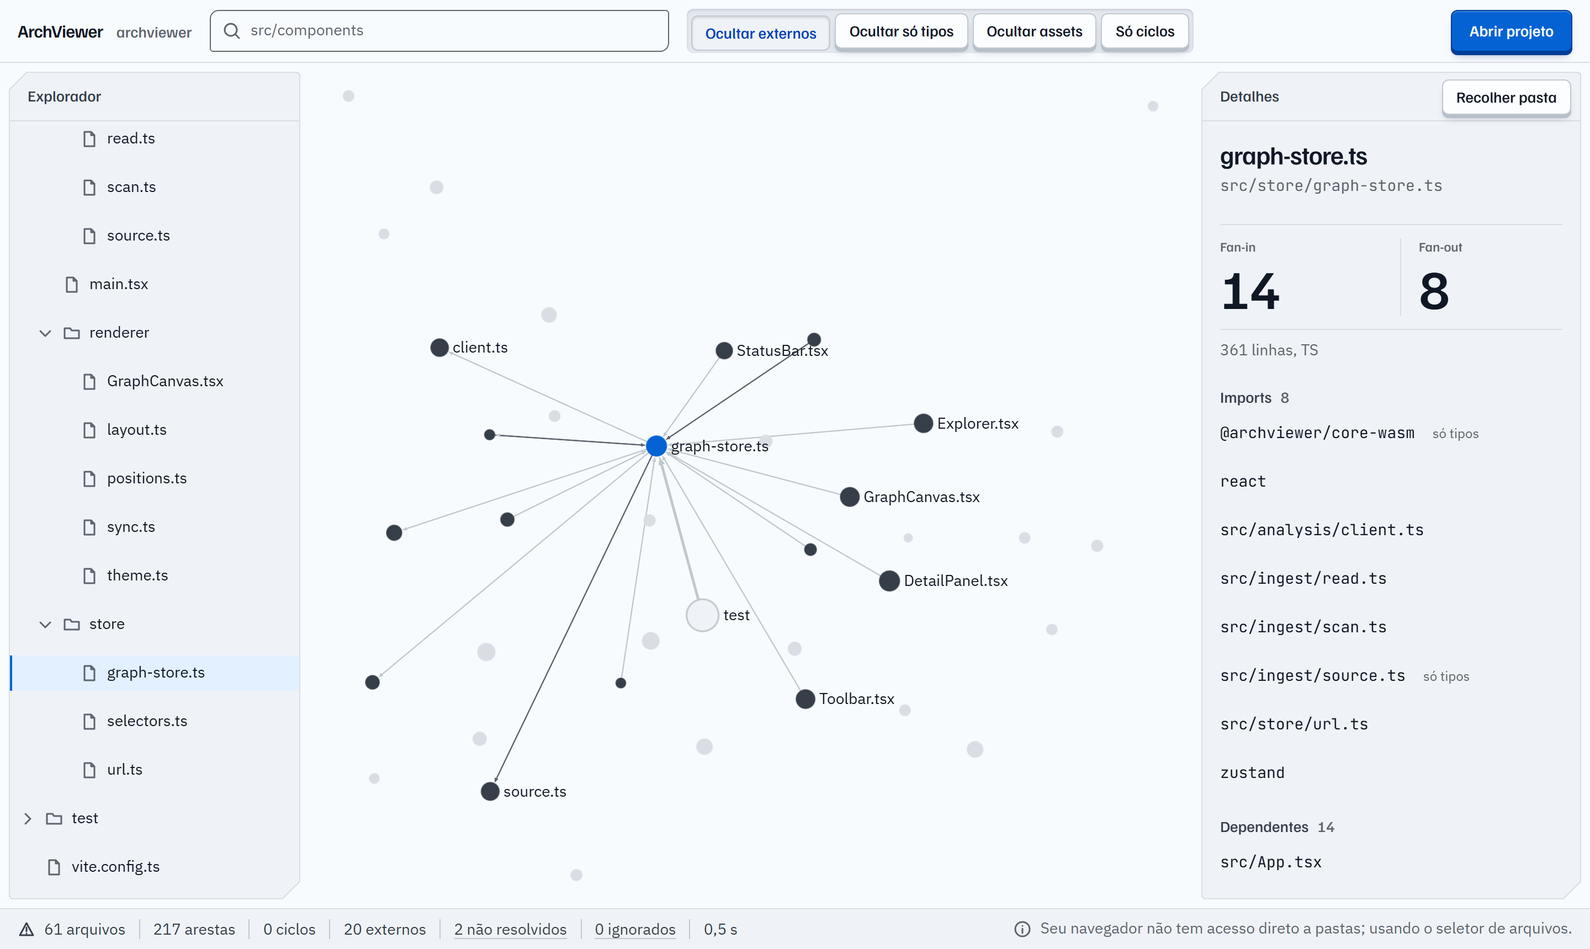
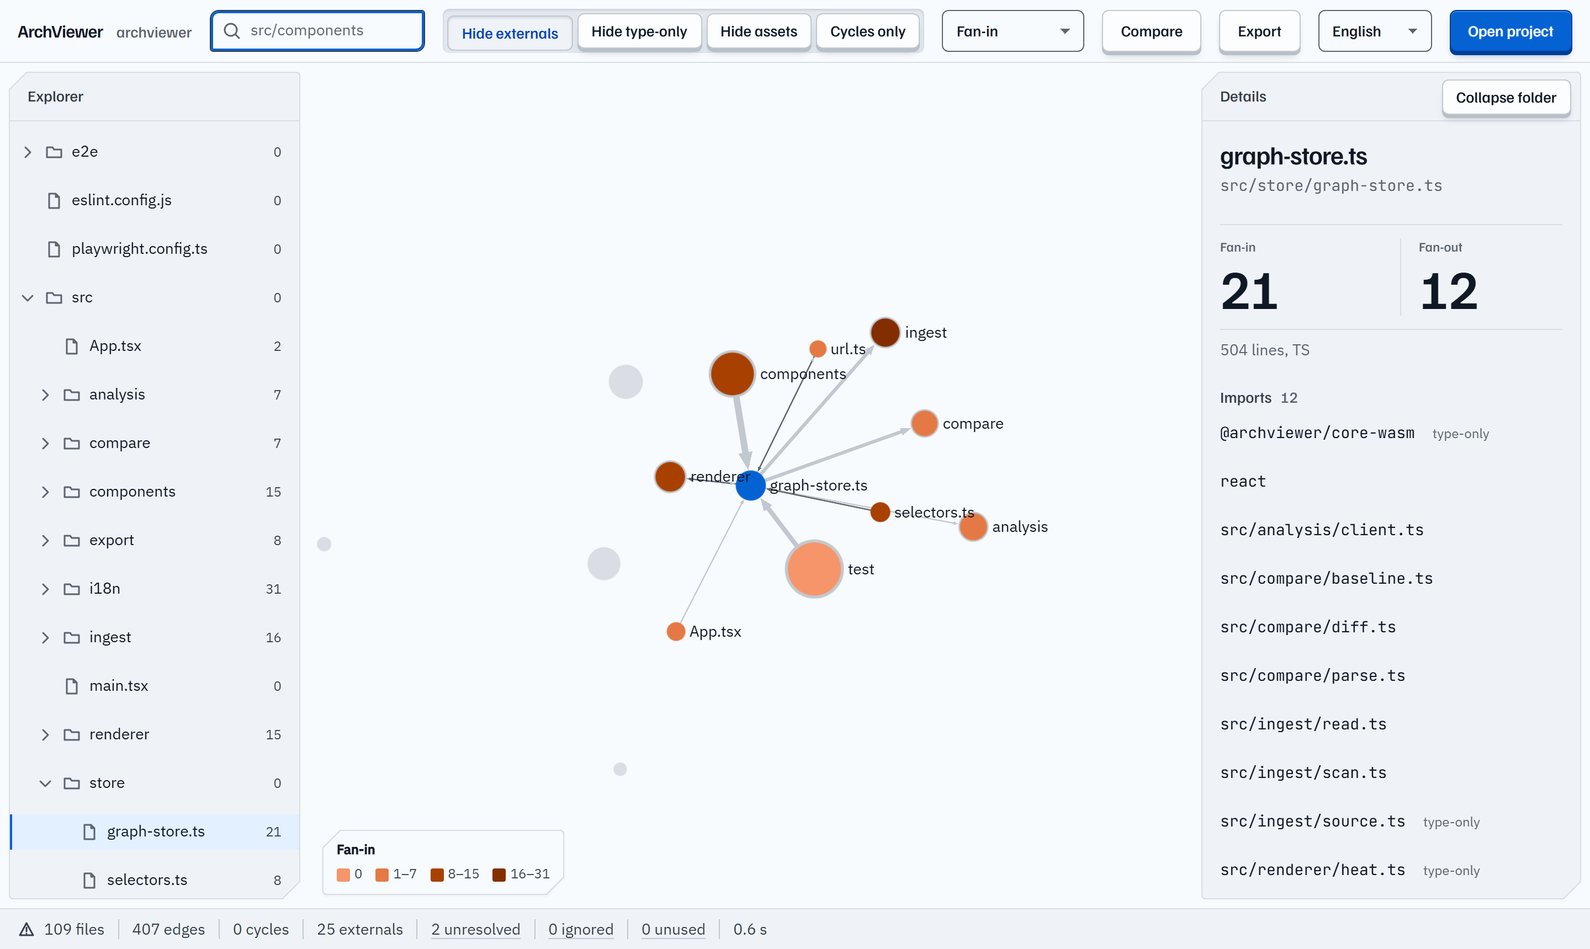
docs: refresh README with current screenshots, usage, stack and limitations

diff --git a/README.pt-BR.md b/README.pt-BR.md
@@ -1,45 +1,80 @@
 # ArchViewer
 
-> Veja a arquitetura de qualquer projeto JavaScript/TypeScript como um grafo interativo, direto no navegador. Seu código não sai da sua máquina.
+> Veja a arquitetura de qualquer projeto JavaScript/TypeScript como um grafo interativo, direto no navegador. Encontre pontos críticos, código sem uso e o que mudou entre versões. Seu código não sai da sua máquina.
 
 [![CI](https://github.com/engviniciusbs/archviewer/actions/workflows/core.yml/badge.svg)](https://github.com/engviniciusbs/archviewer/actions/workflows/core.yml)
 [![Licença: MIT](https://img.shields.io/badge/licen%C3%A7a-MIT-blue.svg)](LICENSE)
 
 **[Experimente → archviewer.viniciusbsarmento.com](https://archviewer.viniciusbsarmento.com)** · [Read in English](README.md)
 
-![ArchViewer mostrando as dependências de um arquivo do próprio app web](docs/assets/screenshot.png)
+![O ArchViewer analisando o próprio app web: o grafo está colorido por fan-in, e o arquivo selecionado, graph-store.ts, mostra 21 dependentes e 12 imports](docs/assets/screenshot.png)
 
-Abra a pasta de um projeto e o ArchViewer desenha as pastas, os arquivos e os imports como um grafo que você expande, recolhe e pesquisa. Sem instalar nada, sem conta, sem upload.
+Abra a pasta de um projeto e o ArchViewer desenha as pastas, os arquivos e os imports como um grafo que você expande, recolhe e pesquisa. Um núcleo em Rust compilado para WebAssembly faz a análise no navegador. Sem instalar nada, sem conta, sem upload.
 
 ## Recursos
 
-- **Grafo interativo**: renderizado em WebGL com Sigma.js e graphology. As pastas começam recolhidas e se expandem sob demanda, então projetos grandes continuam legíveis.
-- **Análise precisa em WebAssembly**: um núcleo em Rust baseado no [OXC](https://oxc.rs) faz o parsing da AST de cada arquivo e resolve os imports como a sua toolchain resolve (paths e references do `tsconfig`, `exports` do `package.json`, workspaces). Tudo roda num Web Worker.
+**Explorar**
+
+- **Grafo interativo**: renderizado em WebGL com Sigma.js. As pastas começam recolhidas e se expandem sob demanda, então projetos com milhares de arquivos continuam legíveis.
+- **Explorador, busca e detalhes**: árvore de arquivos, busca por nome ou caminho e um painel com fan-in, fan-out, imports, dependentes, exports e um trecho do código.
+- **Imports precisos**: o [OXC](https://oxc.rs) faz o parsing de cada arquivo, e os imports são resolvidos como a sua toolchain resolve (paths e references do `tsconfig`, `exports` do `package.json`, workspaces do pnpm/npm/yarn). Imports dinâmicos, `require` e `new URL('./worker.ts', import.meta.url)` também contam.
+
+**Analisar**
+
 - **Ciclos e pendências**: dependências circulares ficam destacadas, e os imports não resolvidos aparecem listados com o motivo.
-- **Explorador, busca e detalhes**: árvore de arquivos, busca por nome ou caminho e um painel com fan-in, fan-out, imports, dependentes e um trecho do código.
-- **Entende monorepos**: workspaces do pnpm e do npm/yarn são detectados e aparecem como pacotes.
-- **Heatmap**: colore o grafo por fan-in, fan-out ou linhas para achar pontos críticos e pastas acopladas demais.
-- **Código sem uso**: acha arquivos que nenhuma entrada alcança, arquivos que só os testes usam e exports que ninguém importa. As entradas vêm do `package.json`, do `index.html`, de rotas do Next.js, de config, de testes e de stories.
-- **Comparar versões**: compare o projeto aberto com um JSON exportado antes ou com outra pasta (um segundo checkout). Veja arquivos novos e removidos, pacotes novos, dependências novas, ciclos novos ou resolvidos e variações de fan-in, e pinte o grafo pelo que mudou.
-- **Exportar e compartilhar**: baixe a visão atual em PNG ou SVG, copie como diagrama Mermaid, baixe o grafo completo de arquivos em JSON ou copie um badge para o README com as contagens de arquivos e ciclos.
-- **Inglês e português**: a interface segue o idioma do navegador, e um seletor troca o idioma. Um idioma novo é um arquivo a mais ([como traduzir](CONTRIBUTING.md#translating-archviewer), em inglês).
+- **Heatmap**: colore o grafo por fan-in, fan-out ou linhas de código para achar pontos críticos e pastas acopladas demais. Numa pasta recolhida, fan-in e fan-out contam só o que atravessa a borda dela.
+- **Código sem uso**: arquivos que nenhuma entrada alcança, arquivos que só os testes usam e exports que ninguém importa. As entradas são detectadas a partir do `package.json`, do `index.html`, de rotas do Next.js, de arquivos de config, de testes e de stories.
+
+**Comparar e compartilhar**
+
+- **Comparar versões**: compare o projeto aberto com um JSON exportado antes ou com outra pasta (um segundo checkout). Veja arquivos novos e removidos, pacotes novos, dependências novas e removidas, ciclos novos ou resolvidos, variações de fan-in, e pinte o grafo pelo que mudou.
+- **Exportar**: baixe a visão atual em PNG ou SVG, copie como diagrama Mermaid, baixe o grafo completo de arquivos em JSON ou copie um badge para o README com as contagens de arquivos e ciclos.
+
+**E também**
+
 - **Privado por construção**: os arquivos são lidos localmente e analisados na sua máquina. Nenhum arquivo, caminho ou métrica é enviado a lugar algum.
+- **Inglês e português**: a interface segue o idioma do navegador, e um seletor troca o idioma. Um idioma novo é um arquivo a mais ([como traduzir](CONTRIBUTING.md#translating-archviewer), em inglês).
+
+| Código sem uso | Comparar versões |
+|---|---|
+| ![O painel de código sem uso na fixture de testes dead-code: dois arquivos inalcançáveis, um arquivo usado só por testes e exports sem uso](docs/assets/unused.png) | ![O ArchViewer comparado com um commit anterior dele mesmo: 44 arquivos novos, dependências novas e o grafo colorido pelas mudanças](docs/assets/compare.png) |
+
+## Como usar
+
+1. Abra o app no Chrome ou no Edge e clique em **Abrir projeto**. Escolha a pasta raiz de um projeto JS/TS.
+2. Expanda pastas no grafo ou no explorador. Selecione um nó para ver imports, dependentes e ciclos.
+3. Use **Colorir por** fan-in, fan-out ou linhas para achar pontos críticos. A escolha fica na URL, então um link compartilhado abre com a mesma visão.
+4. Clique em **N sem uso** na barra de status para revisar arquivos inalcançáveis e exports sem uso.
+5. **Exporte** a visão como imagem ou Mermaid, ou o grafo inteiro como JSON.
+6. **Compare** com um JSON ou com outra pasta para ver o que mudou.
+
+**Acompanhar a arquitetura ao longo do tempo.** O JSON exportado é determinístico: o mesmo código sempre gera o mesmo arquivo. Exporte da branch principal (por exemplo, a cada release), guarde junto da documentação e, depois, compare uma branch de feature com ele em **Comparar → Com um JSON exportado**.
 
 ## Como funciona
 
 ```
 sua pasta ──► ingest (navegador) ──► Web Worker ──► archviewer-core (Rust → WASM)
                .gitignore,                           parsing (OXC), resolve imports,
-               pastas ignoradas,                     monta o grafo, acha ciclos
-               leitura em lotes                                │
+               pastas ignoradas,                     monta o grafo, acha ciclos,
+               leitura em lotes                      métricas, entradas, código sem uso
+                                                               │
                                                                ▼
-                              Interface React ◄── grafo visível, detalhes, busca
-                              (Sigma.js / WebGL)
+                       Interface React ◄── grafo visível, detalhes, busca, export completo (JSON)
+                       (Sigma.js / WebGL)          │
+                                                   └──► compara dois exports, PNG/SVG, Mermaid
 ```
 
-- Arquivos de código: `.ts`, `.tsx`, `.mts`, `.cts`, `.js`, `.jsx`, `.mjs`, `.cjs`.
-- Ficam de fora: `node_modules`, `dist`, `build`, pastas ocultas, o que estiver no `.gitignore` e arquivos acima de 2 MB.
+- Arquivos de código: `.ts`, `.tsx`, `.mts`, `.cts`, `.js`, `.jsx`, `.mjs`, `.cjs`. Configuração lida para a resolução: `package.json`, `tsconfig*.json`, `jsconfig*.json`, `pnpm-workspace.yaml`, `index.html`.
+- Ficam de fora: `node_modules`, `dist`, `build`, `out`, `coverage`, pastas ocultas, o que estiver no `.gitignore` e arquivos acima de 2 MB.
+- Comparar com outra pasta roda uma segunda análise num worker próprio, que é encerrado ao terminar.
 - O CI confere a análise de um projeto sintético com 20 mil arquivos.
+
+## Limitações
+
+- **Só JavaScript e TypeScript.** Componentes `.vue` e `.svelte` ainda não são analisados ([#7](https://github.com/engviniciusbs/archviewer/issues/7)).
+- **O código sem uso é heurístico.** Imports montados em tempo de execução (`import(variavel)`) não são seguidos, e convenções de frameworks além das rotas do Next.js não são reconhecidas. Qualquer pasta `pages/` conta como rotas do Next.js. Se faltar uma entrada, o painel tem um link para abrir uma issue.
+- **A comparação não detecta renomeações.** Um arquivo renomeado aparece como removido mais adicionado.
+- **Sem integração com o git.** Para comparar branches, exporte um JSON de uma delas ou abra um segundo checkout.
 
 ## Suporte de navegadores
 
@@ -49,9 +84,19 @@ sua pasta ──► ingest (navegador) ──► Web Worker ──► archviewer
 | Firefox | Seletor de arquivos (`webkitdirectory`) | Funciona, sem acesso direto à pasta |
 | Safari | Seletor de arquivos (`webkitdirectory`) | Funciona, sem acesso direto à pasta |
 
+## Stack
+
+| Camada | Tecnologia |
+|--------|-----------|
+| Núcleo de análise | Rust 2021, parser [OXC](https://oxc.rs) 0.157 e `oxc_resolver` 11, compilado para WebAssembly com `wasm-bindgen` 0.2.130 e tipado com `tsify` |
+| App web | React 19, Vite 6, TypeScript 5, zustand 5 |
+| Grafo | Sigma.js 3 (WebGL), graphology, layout ForceAtlas2 num worker |
+| Testes | `cargo test` com snapshots `insta`, Vitest 2 + Testing Library, Playwright |
+| Monorepo | pnpm workspaces, Turborepo |
+
 ## Desenvolvimento
 
-Você precisa de Node.js ≥ 20, pnpm ≥ 9 e Rust com o target wasm:
+Requisitos: Node.js ≥ 20, pnpm ≥ 9 e Rust (stable) com o target wasm.
 
 ```bash
 rustup target add wasm32-unknown-unknown
@@ -60,27 +105,26 @@ cargo install wasm-bindgen-cli --version 0.2.130   # igual à do Cargo.lock
 git clone https://github.com/engviniciusbs/archviewer.git
 cd archviewer
 pnpm install
-pnpm build:wasm
-pnpm --filter @archviewer/web dev
+pnpm build:wasm                     # compila o núcleo Rust para WebAssembly
+pnpm --filter @archviewer/web dev   # http://localhost:5173
 ```
 
-Testes, organização do projeto e notas para Windows estão no [CONTRIBUTING.md](CONTRIBUTING.md) (em inglês).
+Rode as verificações com `cargo test --workspace`, `pnpm --filter @archviewer/web test` e `pnpm --filter @archviewer/web e2e`. A lista completa, as notas para Windows e o guia de tradução estão no [CONTRIBUTING.md](CONTRIBUTING.md) (em inglês). O deploy de produção está descrito em [docs/deploy.md](docs/deploy.md).
 
 ```
 archviewer/
-├── crates/archviewer-core/   # núcleo em Rust: parsing, resolução, grafo, ciclos
+├── crates/archviewer-core/   # núcleo em Rust: parsing, resolução, grafo, ciclos, métricas, código sem uso, export
 ├── packages/core-wasm/       # wrapper wasm-bindgen com API JS tipada
-├── apps/web/                 # app React + Vite + Sigma
-└── fixtures/sample-project/  # projeto de exemplo usado nos testes
+├── apps/web/                 # app React + Vite + Sigma (i18n, heatmap, export, comparação)
+├── fixtures/                 # projetos de exemplo usados nos testes (sample-project, monorepo-pnpm, dead-code…)
+└── docs/                     # specs de design, planos, notas de deploy e screenshots
 ```
-
-O deploy de produção está descrito em [docs/deploy.md](docs/deploy.md).
 
 ## Roadmap
 
-Tudo do primeiro roadmap já foi entregue. Ideias em avaliação: visão por pacote em monorepos, mais linguagens e uma CLI nativa sobre o `archviewer-core` para checagens no CI.
+Tudo do primeiro roadmap já foi entregue: interface em inglês, exportar e compartilhar, heatmap, código sem uso e comparação de versões. Ideias em avaliação: visão por pacote em monorepos, mais linguagens e uma CLI nativa sobre o `archviewer-core` para checagens no CI.
 
-Acompanhe na [issue de roadmap](https://github.com/engviniciusbs/archviewer/issues/8). Ideias são bem-vindas.
+Acompanhe e comente na [issue de roadmap](https://github.com/engviniciusbs/archviewer/issues/8).
 
 ## Contribuindo
 

diff --git a/README.md b/README.md
@@ -1,45 +1,80 @@
 # ArchViewer
 
-> See the architecture of any JavaScript/TypeScript project as an interactive graph, right in your browser. Your code never leaves your machine.
+> See the architecture of any JavaScript/TypeScript project as an interactive graph, right in your browser. Find hotspots, unused code and what changed between versions. Your code never leaves your machine.
 
 [![CI](https://github.com/engviniciusbs/archviewer/actions/workflows/core.yml/badge.svg)](https://github.com/engviniciusbs/archviewer/actions/workflows/core.yml)
 [![License: MIT](https://img.shields.io/badge/license-MIT-blue.svg)](LICENSE)
 
 **[Try it → archviewer.viniciusbsarmento.com](https://archviewer.viniciusbsarmento.com)** · [Leia em português](README.pt-BR.md)
 
-![ArchViewer showing the dependencies of a file in its own web app](docs/assets/screenshot.png)
+![ArchViewer analyzing its own web app: the graph is colored by fan-in, and the selected file graph-store.ts shows 21 dependents and 12 imports](docs/assets/screenshot.png)
 
-Open a project folder and ArchViewer draws its folders, files and imports as a graph you can expand, collapse and search. Nothing to install, no account, no upload.
+Open a project folder and ArchViewer draws its folders, files and imports as a graph you can expand, collapse and search. A Rust core compiled to WebAssembly does the analysis in your browser. Nothing to install, no account, no upload.
 
 ## Features
 
-- **Interactive graph**: WebGL rendering with Sigma.js and graphology. Folders start collapsed and expand on demand, so large projects stay readable.
-- **Precise analysis in WebAssembly**: a Rust core built on [OXC](https://oxc.rs) parses every file's AST and resolves imports the way your toolchain does (`tsconfig` paths and references, `package.json` exports, workspaces). It runs in a Web Worker.
+**Explore**
+
+- **Interactive graph**: WebGL rendering with Sigma.js. Folders start collapsed and expand on demand, so projects with thousands of files stay readable.
+- **Explorer, search and details**: a file tree, search by name or path, and a detail panel with fan-in, fan-out, imports, dependents, exports and a code snippet.
+- **Accurate imports**: [OXC](https://oxc.rs) parses every file, and imports resolve the way your toolchain resolves them (`tsconfig` paths and references, `package.json` exports, pnpm/npm/yarn workspaces). Dynamic imports, `require` and `new URL('./worker.ts', import.meta.url)` count too.
+
+**Analyze**
+
 - **Cycles and loose ends**: circular dependencies are highlighted, and unresolved imports are listed with the reason.
-- **Explorer, search and details**: a file tree, search by name or path, and a detail panel with fan-in, fan-out, imports, dependents and a code snippet.
-- **Monorepo aware**: pnpm and npm/yarn workspaces are detected and shown as packages.
-- **Heatmap**: color the graph by fan-in, fan-out or lines to spot hotspots and over-coupled folders.
-- **Unused code**: finds files no entry point reaches, files only tests use, and exports nobody imports. Entry points come from `package.json`, `index.html`, Next.js routes, config, tests and stories.
-- **Compare versions**: compare the open project with a JSON you exported earlier or with another folder (a second checkout). See added and removed files, new packages, new dependencies, new or resolved cycles and fan-in changes, and color the graph by what changed.
-- **Export and share**: download the current view as PNG or SVG, copy it as a Mermaid diagram, download the full file graph as JSON, or copy a README badge with your project's file and cycle counts.
-- **English and Portuguese**: the interface follows your browser language, and a selector switches it. New languages are one file away ([how to translate](CONTRIBUTING.md#translating-archviewer)).
+- **Heatmap**: color the graph by fan-in, fan-out or lines of code to spot hotspots and over-coupled folders. A collapsed folder's fan-in and fan-out only count what crosses its border.
+- **Unused code**: files no entry point reaches, files only your tests use, and exports nobody imports. Entry points are detected from `package.json`, `index.html`, Next.js routes, config files, tests and stories.
+
+**Compare and share**
+
+- **Compare versions**: compare the open project with a JSON you exported earlier or with another folder (a second checkout). See added and removed files, new packages, new and removed dependencies, new or resolved cycles, fan-in changes, and color the graph by what changed.
+- **Export**: download the current view as PNG or SVG, copy it as a Mermaid diagram, download the full file graph as JSON, or copy a README badge with your file and cycle counts.
+
+**And also**
+
 - **Private by design**: files are read locally and analyzed on your machine. No file, path or metric is sent anywhere.
+- **English and Portuguese**: the interface follows your browser language, and a selector switches it. A new language is one file away ([how to translate](CONTRIBUTING.md#translating-archviewer)).
+
+| Unused code | Compare versions |
+|---|---|
+| ![The unused code panel on the dead-code test fixture: two unreachable files, one file only used by tests, and unused exports](docs/assets/unused.png) | ![ArchViewer compared with an earlier commit of itself: 44 added files, new dependencies, and the graph colored by changes](docs/assets/compare.png) |
+
+## Using ArchViewer
+
+1. Open the app in Chrome or Edge and click **Open project**. Pick the root folder of a JS/TS project.
+2. Expand folders in the graph or the explorer. Select a node to see its imports, dependents and cycles.
+3. **Color by** fan-in, fan-out or lines to find hotspots. The choice is kept in the URL, so a shared link opens with the same view.
+4. Click **N unused** in the status bar to review unreachable files and unused exports.
+5. **Export** the view as an image or Mermaid, or the whole graph as JSON.
+6. **Compare** with a JSON or another folder to see what changed.
+
+**Tracking architecture over time.** The exported JSON is deterministic: the same code always produces the same file. Export it from your main branch (for example at each release), keep it next to your docs, and later compare a feature branch against it with **Compare → With an exported JSON**.
 
 ## How it works
 
 ```
 your folder ──► ingest (browser) ──► Web Worker ──► archviewer-core (Rust → WASM)
                  .gitignore,                         parse (OXC), resolve imports,
-                 ignored dirs,                       build graph, find cycles
-                 batched reads                                │
+                 ignored dirs,                       build graph, find cycles,
+                 batched reads                       metrics, entry points, unused code
+                                                              │
                                                               ▼
-                              React UI ◄── visible graph, details, search
-                              (Sigma.js / WebGL)
+                       React UI ◄── visible graph, details, search, full export (JSON)
+                       (Sigma.js / WebGL)          │
+                                                   └──► compare two exports, PNG/SVG, Mermaid
 ```
 
-- Code files: `.ts`, `.tsx`, `.mts`, `.cts`, `.js`, `.jsx`, `.mjs`, `.cjs`.
-- Skipped: `node_modules`, `dist`, `build`, hidden folders, anything in `.gitignore`, and files over 2 MB.
-- Analysis of a 20,000-file synthetic project is checked in CI.
+- Code files: `.ts`, `.tsx`, `.mts`, `.cts`, `.js`, `.jsx`, `.mjs`, `.cjs`. Config read for resolution: `package.json`, `tsconfig*.json`, `jsconfig*.json`, `pnpm-workspace.yaml`, `index.html`.
+- Skipped: `node_modules`, `dist`, `build`, `out`, `coverage`, hidden folders, anything in `.gitignore`, and files over 2 MB.
+- Comparing with another folder runs a second analysis in its own worker, which is closed when it finishes.
+- CI checks the analysis of a 20,000-file synthetic project.
+
+## Limitations
+
+- **JavaScript and TypeScript only.** `.vue` and `.svelte` single-file components are not parsed yet ([#7](https://github.com/engviniciusbs/archviewer/issues/7)).
+- **Unused code is heuristic.** Imports built at runtime (`import(variable)`) are not followed, and framework conventions other than Next.js routes are not recognized. Any `pages/` folder counts as Next.js routes. If an entry point is missing, the panel links to an issue form.
+- **Comparisons have no rename detection.** A renamed file shows up as removed plus added.
+- **No git integration.** To compare branches, export a JSON from one or open a second checkout.
 
 ## Browser support
 
@@ -49,9 +84,19 @@ your folder ──► ingest (browser) ──► Web Worker ──► archviewer
 | Firefox | File picker (`webkitdirectory`) | Works, without direct folder access |
 | Safari | File picker (`webkitdirectory`) | Works, without direct folder access |
 
+## Tech stack
+
+| Layer | Technology |
+|-------|-----------|
+| Analysis core | Rust 2021, [OXC](https://oxc.rs) parser 0.157 and `oxc_resolver` 11, compiled to WebAssembly with `wasm-bindgen` 0.2.130 and typed with `tsify` |
+| Web app | React 19, Vite 6, TypeScript 5, zustand 5 |
+| Graph | Sigma.js 3 (WebGL), graphology, ForceAtlas2 layout in a worker |
+| Tests | `cargo test` with `insta` snapshots, Vitest 2 + Testing Library, Playwright |
+| Monorepo | pnpm workspaces, Turborepo |
+
 ## Development
 
-You need Node.js ≥ 20, pnpm ≥ 9 and Rust with the wasm target:
+Requirements: Node.js ≥ 20, pnpm ≥ 9, and Rust (stable) with the wasm target.
 
 ```bash
 rustup target add wasm32-unknown-unknown
@@ -60,25 +105,26 @@ cargo install wasm-bindgen-cli --version 0.2.130   # must match Cargo.lock
 git clone https://github.com/engviniciusbs/archviewer.git
 cd archviewer
 pnpm install
-pnpm build:wasm
-pnpm --filter @archviewer/web dev
+pnpm build:wasm                     # compile the Rust core to WebAssembly
+pnpm --filter @archviewer/web dev   # http://localhost:5173
 ```
 
-Tests, project layout and Windows notes are in [CONTRIBUTING.md](CONTRIBUTING.md). Production deployment is described in [docs/deploy.md](docs/deploy.md) (in Portuguese).
+Run the checks with `cargo test --workspace`, `pnpm --filter @archviewer/web test` and `pnpm --filter @archviewer/web e2e`. The full list, Windows notes and the translation guide are in [CONTRIBUTING.md](CONTRIBUTING.md). Production deployment is described in [docs/deploy.md](docs/deploy.md) (in Portuguese).
 
 ```
 archviewer/
-├── crates/archviewer-core/   # Rust core: parsing, resolution, graph, cycles
+├── crates/archviewer-core/   # Rust core: parsing, resolution, graph, cycles, metrics, dead code, export
 ├── packages/core-wasm/       # wasm-bindgen wrapper with a typed JS API
-├── apps/web/                 # React + Vite + Sigma app
-└── fixtures/sample-project/  # sample project used by the tests
+├── apps/web/                 # React + Vite + Sigma app (i18n, heatmap, export, compare)
+├── fixtures/                 # sample projects used by the tests (sample-project, monorepo-pnpm, dead-code…)
+└── docs/                     # design specs, plans, deploy notes and screenshots
 ```
 
 ## Roadmap
 
-Everything on the first roadmap has shipped. Ideas being considered next: a monorepo package view, more languages, and a native CLI on top of `archviewer-core` for CI checks.
+Everything on the first roadmap has shipped: English interface, export and share, heatmap, unused code, and version comparison. Ideas being considered next: a monorepo package view, more languages, and a native CLI on top of `archviewer-core` for CI checks.
 
-Follow progress in the [roadmap issue](https://github.com/engviniciusbs/archviewer/issues/8). Ideas are welcome.
+Follow and discuss in the [roadmap issue](https://github.com/engviniciusbs/archviewer/issues/8).
 
 ## Contributing
 
